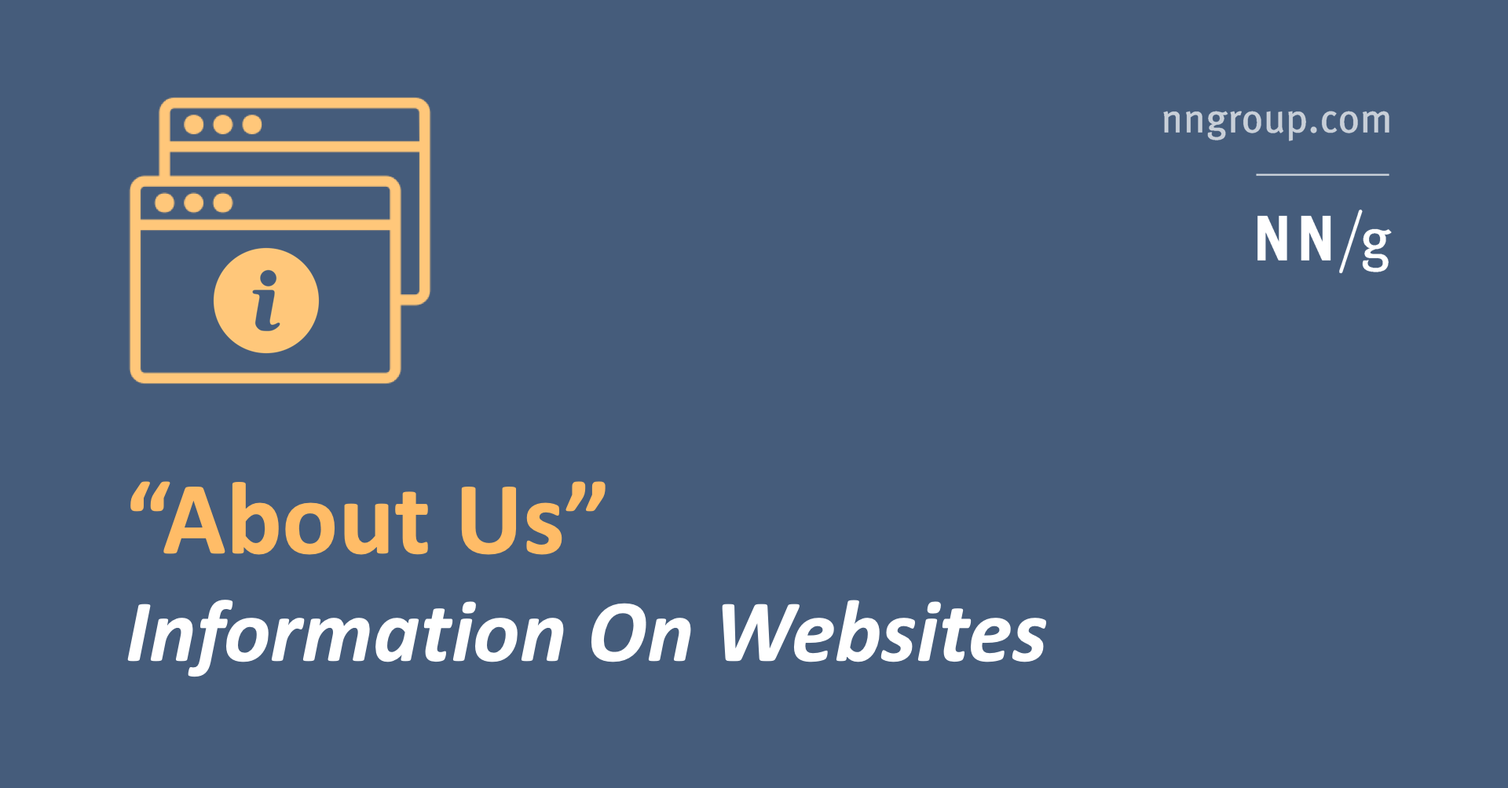
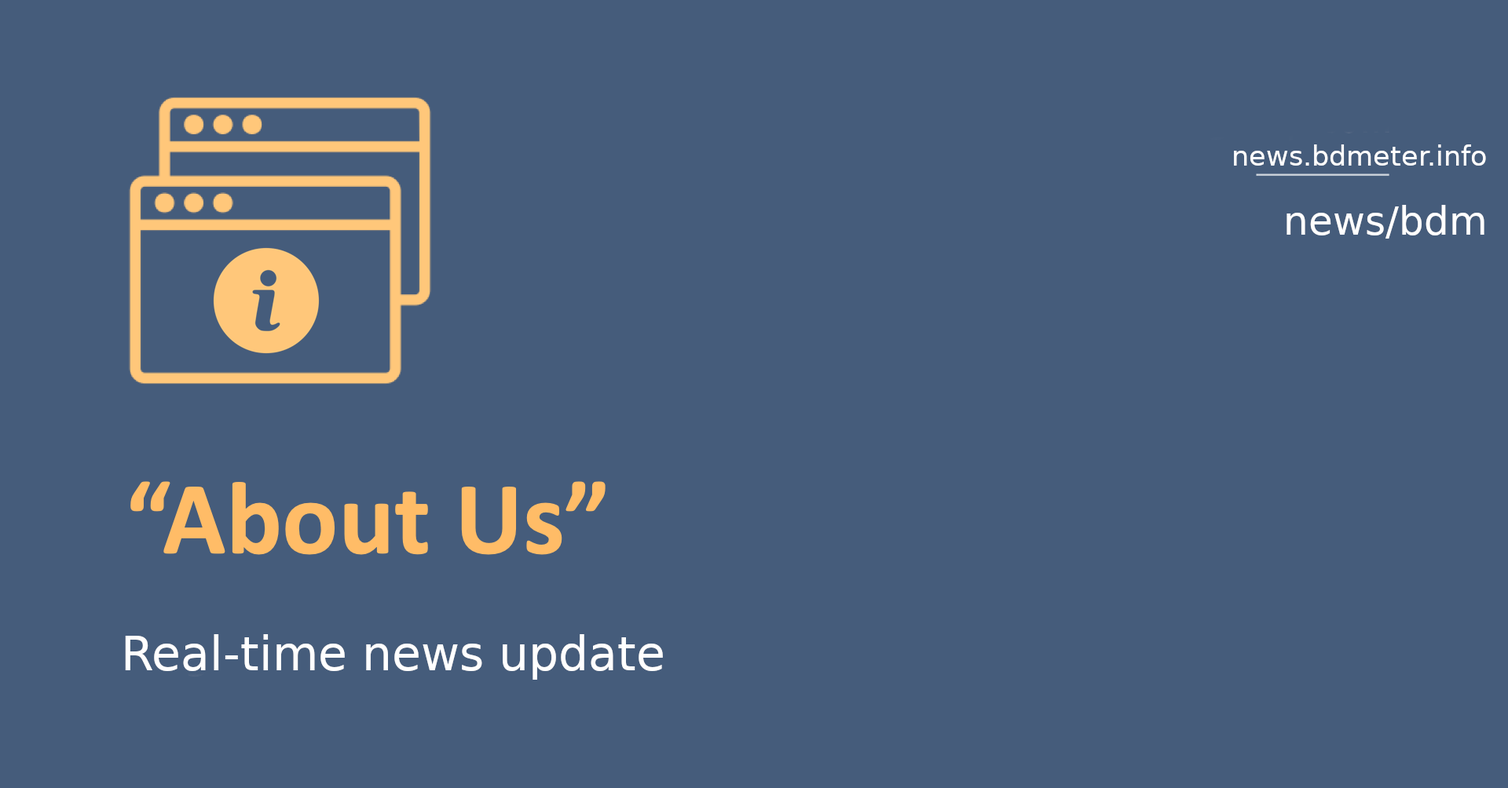
werfg

Changed region(s): [[0.0625, 0.741, 0.6875, 0.8645], [0.7812, 0.1235, 1.0, 0.2161], [0.8125, 0.247, 1.0, 0.3396]]

diff --git a/layouts/partials/hugopress/modules/hb-custom/hooks/body-end.html b/layouts/partials/hugopress/modules/hb-custom/hooks/body-end.html
@@ -109,3 +109,28 @@
     (adsbygoogle = window.adsbygoogle || []).push({});
     </script>
 </div>
+
+
+<script type='text/javascript'>
+    $(document).ready(function() {$('img#closed').click(function(){$('#bl_banner').hide(90);});});
+    </script>
+    <div id='fixedban' style='width:100%;margin:auto;text-align:center;float:none;overflow:hidden;display:scroll;position:fixed;bottom:0;z-index:999;-webkit-transform:translateZ(0);'>
+    <div>
+    <a id='close-fixedban' onclick='document.getElementById("fixedban").style.display = "none";' style='cursor:pointer;'><img alt='close' src='https://1.bp.blogspot.com/-ViBJvudead0/XupPbriErCI/AAAAAAAAATw/lx54gHfDbKk0cEAhTwNKNp3LN-4-D5JrwCK4BGAsYHg/s324/multiply_green.png' height='20' width='20' title='close button' style='vertical-align:middle; float:right;'/></a></div>
+    <div style='text-align:middle;display:block;max-width:728px;height:auto;overflow:hidden;margin:auto'>
+    
+    <script async src="https://pagead2.googlesyndication.com/pagead/js/adsbygoogle.js?client=ca-pub-6173503627170942"
+         crossorigin="anonymous"></script>
+    <!-- floating 1 -->
+    <ins class="adsbygoogle"
+         style="display:block"
+         data-ad-client="ca-pub-6173503627170942"
+         data-ad-slot="2011534447"
+         data-ad-format="auto"
+         data-full-width-responsive="true"></ins>
+    <script>
+         (adsbygoogle = window.adsbygoogle || []).push({});
+    </script>
+    
+    </div>
+    </div>

diff --git a/content/news/2023/08/2023-08-20-panama-canal-dried-up/index.md b/content/news/2023/08/2023-08-20-panama-canal-dried-up/index.md
@@ -1,0 +1,80 @@
+---
+title: "Panama Canal is facing a serious challenge due to a severe drought"
+date: "2023-08-20"
+description: "Hundreds of ships are stuck in a massive traffic jam, waiting for their turn to cross the Canal.
+"
+categories:
+    - "Live news"
+tags:
+    - "Panama Canal"
+    - "Shipping"
+    - "drought"
+    - "dried up"
+    - "Traffic jam"
+---
+
+## Global economy crisis due to Panama Canal stoppage
+
+The Panama Canal is one of the most important trade routes in the world, connecting the Atlantic and Pacific oceans and allowing ships to save time and money by avoiding the long detour around South America. However, the Canal is facing a serious challenge due to a severe drought that has reduced the water levels in the artificial lake that supplies the locks that lift and lower the ships. As a result, hundreds of ships are stuck in a massive traffic jam, waiting for their turn to cross the Canal.
+
+The drought is caused by climate change, which has altered the rainfall patterns in Panama, one of the wettest regions on Earth. The Canal relies on rainwater to fill its reservoirs, which are used to operate the locks. Each transit of a ship consumes about 50 million gallons of water, which is released into the ocean. The Canal authority has implemented measures to conserve water, such as recycling some of the water, installing water-saving basins, and imposing restrictions on the size and number of ships that can pass through each day. However, these measures are not enough to cope with the unprecedented dry spell that has lasted for months.
+
+The impact of the drought on the Canal is not only a problem for Panama, but also for the global economy. The Canal handles about 5% of world trade, with more than 12,000 ships passing through each year. The delay in transit affects many industries, such as agriculture, energy, manufacturing, and retail. Some shippers have opted to reroute their vessels around South America or use other modes of transportation, such as rail or air. However, these alternatives are more expensive, time-consuming, and environmentally damaging.
+
+The situation at the Canal highlights the vulnerability of global trade to climate change, which can disrupt supply chains and increase costs and risks. It also underscores the need for more investment in infrastructure and technology to adapt to changing weather conditions and ensure the resilience and sustainability of trade routes. The Canal authority is working on a long-term plan to expand its water sources and increase its storage capacity. It is also exploring the possibility of using renewable energy sources, such as solar and wind power, to operate the locks.
+
+The Panama Canal is a remarkable engineering feat that has transformed global trade for over a century. However, it is also facing a critical test due to climate change, which threatens its viability and efficiency. The drought at the Canal is a wake-up call for the world to take action to mitigate and adapt to the effects of climate change, which can have far-reaching consequences for trade and development.
+
+
+### WHy this happened in Panama Canal?
+
+The reason behind the Panama Canal drying up is climate change, which has caused a severe drought in Panama, one of the wettest regions on Earth. The Canal depends on rainwater to fill its reservoirs, which are used to operate the locks that lift and lower the ships. However, the rainfall patterns have changed due to global warming, resulting in less water available for the Canal.
+
+To improve the Canal, the Canal authority is working on several measures, such as:
+
+- Recycling some of the water used in each transit, instead of releasing it into the ocean.
+- Installing water-saving basins that reduce the amount of water needed for each lock operation by 7%.
+- Imposing restrictions on the size and number of ships that can pass through each day, based on the water levels and weather forecasts.
+- Expanding its water sources by building new reservoirs and dams, and increasing its storage capacity by raising the level of the existing lake.
+- Exploring the possibility of using renewable energy sources, such as solar and wind power, to operate the locks.
+
+These measures aim to conserve water, increase efficiency, and reduce the environmental impact of the Canal. However, they also require significant investment and time to implement. The Canal authority hopes to complete its long-term plan by 2028.
+
+### How to bypass ships stucked in Panama Canal
+There are two main ways to bypass the Panama Canal if you want to ship goods from one ocean to the other:
+
+- The first way is to go around South America, either through the Strait of Magellan or Cape Horn. This route is longer, more expensive, and more dangerous than the Canal, as it exposes the ships to rough seas, strong winds, and icebergs. However, some shippers have opted for this alternative to avoid the long delays and restrictions at the Canal due to the drought².
+- The second way is to use other modes of transportation, such as rail or air. For example, some shippers have used the intermodal network of railways and highways in North America to transport their goods from the Pacific coast to the Atlantic coast, or vice versa. This option is faster and more reliable than the Canal, but also more costly and less environmentally friendly. Another option is to use air cargo, which is the quickest and most flexible way to move goods across continents, but also the most expensive and limited by capacity².
+
+Both of these ways have their advantages and disadvantages, depending on the type, volume, value, and urgency of the goods being shipped. The Panama Canal remains the most efficient and convenient route for many shippers, but it also faces challenges due to climate change, which can disrupt its operations and affect its competitiveness. Therefore, it is important for shippers to have contingency plans and alternative routes in case of emergencies or disruptions at the Canal.
+
+
+### History of Panama Canal
+
+The history of the Panama Canal is a fascinating story of human ingenuity, ambition, and perseverance. The Canal is a man-made waterway that connects the Atlantic and Pacific oceans through the narrow Isthmus of Panama. It is one of the most important trade routes in the world, as it allows ships to save time and money by avoiding the long detour around South America. The Canal also has a significant impact on the environment, culture, and politics of Panama and the region.
+
+
+![Panama Canal history 1](images/14747608026_abb00df42c_h.jpg)
+
+The idea for a Canal across Panama dates back to the 16th century, when Spanish explorer Vasco Núñez de Balboa became the first European to discover that the Isthmus of Panama was just a slim land bridge separating the Atlantic and Pacific oceans³. The earliest European colonists recognized this, and several proposals for a Canal were made¹. However, it was not until the late 19th century that technological advances and commercial pressure allowed construction to begin in earnest.
+
+The first attempt to build the Canal was led by France, under the direction of Ferdinand de Lesseps, who had successfully built the Suez Canal in Egypt. However, the French project faced many challenges, such as the rugged terrain, tropical diseases, engineering difficulties, and financial scandals. After 10 years of work and the loss of more than 20,000 lives, the French company went bankrupt and abandoned the project in 1889.
+
+![Panama Canal history 2](images/Panama-Canal-construction-1.jpg)
+
+The second attempt was led by the United States, which had a strong interest in building a Canal for strategic and economic reasons. The U.S. acquired the rights to the French assets and negotiated a treaty with Colombia, which then controlled Panama, to build and operate the Canal. However, when Colombia rejected the treaty, the U.S. supported a revolution by Panamanian nationalists who declared their independence from Colombia in 1903¹. The U.S. then signed a new treaty with Panama, granting it a perpetual lease on a 10-mile-wide strip of land known as the Canal Zone.
+
+![Panama Canal history 3](images/Panama_Gatun_locks_WS_dbloc.jpg)
+
+The U.S. project was supervised by John F. Stevens and later George W. Goethals, who made several changes to improve the efficiency and safety of the Canal. They decided to use a lock system instead of a sea-level Canal, which required less excavation and allowed for better control of water levels. They also implemented sanitary measures to combat malaria and yellow fever, which had decimated the French workers. They also used innovative technologies such as steam shovels, dredges, railroads, and concrete mixers to speed up the construction process.
+
+![Panama Canal history 4](images/PanamaCanalSSAncon1914FirstShipThru2.jpg)
+
+The Panama Canal was completed in August 1914, after 10 years of work and the expenditure of $375 million. It was considered one of the greatest engineering achievements of its time. The Canal was officially opened on August 15, 1914, with the passage of the cargo ship SS Ancon¹. Since then, more than one million vessels have transited through the Canal, carrying more than 14 billion tons of cargo.
+
+The Canal has also been a source of controversy and conflict over its ownership and operation. For many years, Panama resented the U.S. presence and influence in its territory and demanded more sovereignty and benefits from the Canal. After several riots and negotiations, the U.S. and Panama signed two treaties in 1977 that agreed to transfer the control of the Canal to Panama by December 31, 1999. The transfer was completed peacefully and successfully on that date, marking a new era for Panama and its relations with the U.S.
+
+Since then, Panama has been responsible for administering and managing the Canal through an autonomous agency called the Panama Canal Authority (ACP). The ACP has invested in modernizing and expanding the Canal to meet the growing demand and competition from other routes. In 2007, it began a major project to build a third set of locks that can accommodate larger ships with more cargo capacity. The project was completed in June 2016, increasing the Canal's annual revenue by 50%.
+
+The Panama Canal is not only a vital link for global trade but also a symbol of human creativity and cooperation. It is a testament to how people can overcome natural and artificial obstacles to achieve their goals and dreams. It is also a reminder of how people can respect and share their resources for mutual benefit and development.
+

diff --git a/content/news/2023/08/2023-08-17-lake-mead-lake-powell-changes/index.md b/content/news/2023/08/2023-08-17-lake-mead-lake-powell-changes/index.md
@@ -1,0 +1,57 @@
+---
+title: "How Lake Mead and Lake Powell Water Levels Are Changing and Why It Matters"
+date: "2023-08-17"
+description: "Lake Mead and Lake Powell are two of the largest reservoirs in the United States and the main storage units of the Colorado River system, which provides water to about 40 million people and 5.5 million acres of farmland in seven states and Mexico."
+categories:
+    - "Live news"
+tags:
+    - "Lake Mead"
+    - "Lake Powell"
+    - "United States"
+    - "Colorado River system"
+    - "Water level"
+---
+
+## How Lake Mead and Lake Powell Water Levels Are Changing and Why It Matters
+
+Lake Mead and Lake Powell are two of the largest reservoirs in the United States and the main storage units of the Colorado River system, which provides water to about 40 million people and 5.5 million acres of farmland in seven states and Mexico. However, both lakes have been suffering from a prolonged drought that has reduced their water levels to historically low levels, threatening the water supply, hydropower generation, recreation and ecosystem of the region. In this blog post, we will look at how the water levels of Lake Mead and Lake Powell have changed over time, what are the causes and consequences of these changes, and what are the possible solutions to address this challenge.
+
+### How have the water levels changed?
+According to the data from the Bureau of Reclamation (BOR), which manages both reservoirs, Lake Mead and Lake Powell have experienced a significant decline in their water levels since 2000, when they were both near full capacity. The decline was mainly driven by a combination of low precipitation, high evaporation, increased water demand and reduced inflow from upstream tributaries. As of August 16, 2023, Lake Mead's water level was at 1,075 feet above sea level, which is about 145 feet below its full capacity of 1,220 feet. Lake Powell's water level was at 3,574 feet above sea level, which is about 125 feet below its full capacity of 3,700 feet.
+
+The water levels of both lakes fluctuate seasonally and annually depending on the hydrological conditions and the water management policies. For example, in 2023, both lakes saw an improvement in their water levels due to above-average precipitation and snowpack that melted throughout the summer. However, this improvement was not enough to reverse the long-term trend of decline. In fact, the BOR projected that both lakes will continue to drop in the next two years, reaching 1,065 feet for Lake Mead and 3,525 feet for Lake Powell by January 1, 2024.
+
+![Lake Mead](images/lakemeadlakepowell.png)
+
+### Why do the water levels matter?
+The water levels of Lake Mead and Lake Powell have significant implications for various aspects of the region's economy, environment and society. Here are some of the main impacts:
+
+- Water supply: The Colorado River system supplies water to about 40 million people and 5.5 million acres of farmland in Arizona, California, Colorado, Nevada, New Mexico, Utah and Wyoming, as well as Mexico. The lower the water levels of Lake Mead and Lake Powell are, the less water is available for these users. Moreover, the lower water levels also increase the salinity and reduce the quality of the water.
+- Hydropower generation: The Hoover Dam on Lake Mead and the Glen Canyon Dam on Lake Powell are two of the largest hydropower plants in the country, producing electricity for millions of homes and businesses in the Southwest. The lower the water levels of Lake Mead and Lake Powell are, the less power they can generate. For example, according to the BOR, if Lake Mead drops below 1,050 feet, it would lose about 25% of its power output. If it drops below 900 feet, it would stop producing power altogether.
+- Recreation: Lake Mead and Lake Powell are popular destinations for boating, fishing, camping and other recreational activities that generate millions of dollars in revenue and support thousands of jobs in the region. The lower the water levels of Lake Mead and Lake Powell are, the less attractive they are for visitors. For example, according to a study by Arizona State University¹, every foot drop in Lake Mead's water level reduces its economic value by $6.4 million.
+- Ecosystem: The Colorado River system supports a rich biodiversity of fish, wildlife and plants that depend on its flow regime, temperature and quality. The lower the water levels of Lake Mead and Lake Powell are, the more they alter these ecological conditions and threaten the survival of many species. For example, according to a report by American Rivers², four native fish species in the Colorado River basin are endangered or threatened due to habitat loss, fragmentation and degradation caused by dams and diversions.
+
+![Lake Powell Drying recovery 2023](images/LakePowell-dried-up.png)
+
+### What are the possible solutions?
+To address the challenge of declining water levels in Lake Mead and Lake Powell, there is no single or easy solution. Rather, it requires a combination of short-term and long-term measures that involve cooperation among various stakeholders at local, state, federal and international levels. Some of these measures include:
+
+- Conservation: One of the most effective ways to save water is to use less of it. This can be achieved by implementing various conservation practices such as installing low-flow fixtures, replacing turf with drought-tolerant landscaping,
+recycling wastewater,
+using drip irrigation,
+and educating consumers about water efficiency.
+- Innovation: Another way to save water is to use it more wisely. This can be achieved by applying various technological innovations such as remote sensing, artificial intelligence, smart meters, leak detection, and water trading that can help optimize water allocation, distribution and management.
+- Adaptation: A third way to save water is to adapt to the changing conditions. This can be achieved by adjusting various policies and regulations such as water rights, pricing, allocation, transfers, and governance that can help balance the competing demands and interests of different water users and sectors.
+- Collaboration: A fourth way to save water is to work together. This can be achieved by fostering various forms of collaboration such as agreements, partnerships, coalitions, and dialogues that can help build trust and cooperation among different stakeholders across borders and boundaries.
+
+### Conclusion
+Lake Mead and Lake Powell are two of the most important reservoirs in the United States and the main storage units of the Colorado River system, which provides water to millions of people and acres of farmland in the region. However, both lakes have been facing a severe drought that has reduced their water levels to historically low levels, threatening the water supply, hydropower generation, recreation and ecosystem of the region. To address this challenge, there is no single or easy solution. Rather, it requires a combination of conservation, innovation, adaptation and collaboration among various stakeholders at local, state, federal and international levels. By taking these actions, we can ensure the sustainability and resilience of Lake Mead and Lake Powell and the Colorado River system for the present and future generations.
+
+#### Source: 
+(1) Charts Show Lake Mead, Powell Water Levels Change Amid Low ... - Newsweek. https://www.newsweek.com/charts-show-lake-mead-powell-water-levels-change-amid-low-storage-warning-1820345.
+
+(2) Federal officials announce 2024 plans for Lake Mead, Lake Powell water use. https://www.ktnv.com/news/federal-officials-announce-2024-plans-for-lake-mead-lake-powell-water-use.
+
+(3) Have Lake Mead Water Levels Stopped Rising? What We Know - Newsweek. https://www.newsweek.com/have-lake-mead-water-levels-stopped-rising-what-we-know-1812582.
+
+(4) Here's how much Lake Mead could rise after an epic winter and new water .... https://www.cnn.com/2023/06/24/us/how-much-lake-mead-water-rise-climate/index.html.

diff --git a/content/news/2023/08/2023-08-17-Ukraine-Give-Up-Territory/index.md b/content/news/2023/08/2023-08-17-Ukraine-Give-Up-Territory/index.md
@@ -1,0 +1,43 @@
+---
+title: "Should Ukraine Give Up Territory for NATO Membership?"
+date: "2023-08-17"
+description: "The recent suggestion by a senior NATO official that Ukraine could consider ceding some of its disputed territories to Russia in exchange for joining the military alliance has sparked a heated debate among experts, politicians and the public."
+categories:
+    - "Live news"
+tags:
+    - "Ukraine"
+    - "War"
+    - "Territory"
+    - "NATO"
+    - "Membership"
+---
+
+## Should Ukraine Give Up Territory for NATO Membership?
+
+The recent suggestion by a senior NATO official that Ukraine could consider ceding some of its disputed territories to Russia in exchange for joining the military alliance has sparked a heated debate among experts, politicians and the public. The idea, which was quickly retracted and apologized for by the official, was met with strong opposition and criticism from the Ukrainian government and society, who see it as a betrayal of their sovereignty and national interests. But is there any merit to this controversial proposal? What are the pros and cons of such a trade-off for Ukraine and its security?
+
+### The Pros
+One of the main arguments in favor of giving up territory for NATO membership is that it could end the ongoing war in eastern Ukraine, which has claimed over 14,000 lives and displaced millions of people since 2014. By accepting Russia's annexation of Crimea and its control over parts of the Donbas region, Ukraine could secure a lasting peace agreement with Moscow and avoid further escalation and violence. Moreover, by joining NATO, Ukraine would gain the protection and support of the most powerful military alliance in the world, which could deter any future aggression from Russia or other threats. NATO membership would also boost Ukraine's political and economic integration with the West, enhancing its democratic reforms, rule of law, human rights and market economy.
+
+### The Cons
+However, there are also many drawbacks and risks associated with giving up territory for NATO membership. First of all, it would mean abandoning the territorial integrity and sovereignty of Ukraine, which are enshrined in its constitution and supported by the majority of its citizens. It would also mean rewarding Russia for its illegal annexation of Crimea and its military intervention in Donbas, which violate international law and norms. Such a concession could embolden Russia to pursue further expansionism and destabilization in the region and beyond. Furthermore, it is not clear that NATO membership would guarantee Ukraine's security, as the alliance has been reluctant to intervene militarily in the conflict or provide lethal weapons to Kyiv. There is also no guarantee that all NATO members would agree to admit Ukraine, especially those that have close ties or dependencies on Russia, such as Germany or Turkey. Additionally, giving up territory for NATO membership could alienate some of Ukraine's allies and partners, such as Poland or Georgia, who also have territorial disputes with Russia and aspire to join NATO.
+
+### The Conclusion
+In conclusion, giving up territory for NATO membership is a highly controversial and risky proposition for Ukraine, which has more cons than pros. It would entail sacrificing its sovereignty and legitimacy for an uncertain security guarantee and a potential backlash from Russia and other actors. It would also contradict the aspirations and values of the Ukrainian people, who have fought hard to defend their independence and democracy. Therefore, Ukraine should not give up territory for NATO membership, but rather pursue other ways to enhance its security and cooperation with NATO and the West, such as strengthening its defense capabilities, implementing reforms, resolving the conflict diplomatically and building trust and dialogue with all stakeholders.
+
+### Source: 
+(1) Nato official suggests Ukraine could give up land in exchange for .... https://www.theguardian.com/world/2023/aug/16/nato-official-suggests-ukraine-could-give-up-territory-in-exchange-for-membership.
+
+(2) Ukraine fumes at NATO territory suggestion as Medvedev calls for Russia to get Kyiv. https://www.msn.com/en-us/news/other/ukraine-fumes-at-nato-territory-suggestion-as-medvedev-calls-for-russia-to-get-kyiv/ar-AA1fmnHf.
+
+(3) Ukraine angered by NATO official's suggestion that it could 'give up territory' to Russia and get NATO membership in return. https://www.msn.com/en-us/news/world/ukraine-angered-by-nato-officials-suggestion-that-it-could-give-up-territory-to-russia-and-get-nato-membership-in-return/ar-AA1flvyr.
+
+(4) Ukraine–NATO relations - Wikipedia. https://en.wikipedia.org/wiki/Ukraine%E2%80%93NATO_relations.
+
+(5) NATO's condition for Ukraine: Membership hinges on territory concession to Russia. https://www.wionews.com/world/natos-condition-for-ukraine-membership-hinges-on-territory-concession-to-russia-625815.
+
+(6) Ukraine: At least 20 Russian soldiers die of fragging as they exchange fire with automatics, lob grenades on each other. https://www.firstpost.com/world/at-least-20-russian-soldiers-die-of-fragging-in-ukraine-as-exchange-fire-with-automatics-lob-grenades-on-each-other-13004522.html.
+
+(7) Ukraine reports new attack on grain storage facilities. https://www.omanobserver.om/article/1141554/world/europe/ukraine-reports-new-attack-on-grain-storage-facilities.
+
+(8) NATO official admits comments on Ukraine giving up territory to gain .... https://www.cnbc.com/2023/08/16/nato-official-dials-back-comment-on-ukraine-ceding-land-to-gain-membership-.html.

diff --git a/content/page/2023/04/2023-04-05-vaccine-policy/index.md b/content/page/2023/04/2023-04-05-vaccine-policy/index.md
@@ -3,7 +3,7 @@ title: "Vaccine Policy"
 date: "2023-04-05"
 ---
 
-We are Bdmeter, a fully online base information service and tech company. Bdmeter always advises all of its employees working remotely to ensure Covid-19 vaccination with booster dose to ensure life security. We aren't limited to accepting only vaccinated people into our organization because Bdmeter is only online based, and no close contact is related to our organization's terms.
+We are Bdmeter news department, a fully online base information service and tech company. Bdmeter always advises all of its employees working remotely to ensure Covid-19 vaccination with booster dose to ensure life security. We aren't limited to accepting only vaccinated people into our organization because Bdmeter is only online based, and no close contact is related to our organization's terms.
 
 So, whoever is working with , is not limited to working from home if he/she is vaccinated/not. We believe in freedom and are full of the potential of people. We do not make any boundaries to accept only workers in a case under certain terms and conditions for remote working.
 

diff --git a/content/page/2023/03/2023-03-17-about/index.md b/content/page/2023/03/2023-03-17-about/index.md
@@ -7,7 +7,7 @@ date: "2023-03-17"
 
 ## Our Story
 
-We are Bdmeter, We are a team of friends and most are Engineers, Technologists, Architects, Builders, and Specialists was thinking louder in last 2018 to develop something that can help people. Then we have descided to start a blogsite and we are the Authors from his own position of work. Then we have started our jouney in October 2018. We are trying to help our communities to learn something really important to develop our business, industry, socienty, environment, shelter, health, safety all together. 
+We are Bdmeter News, We are a team of Journalist and Bloggers, and News Specialists have started our jouney in June 2021. We are an organization of live news moderator, analyzer to represent news in a way means more authentic and reliable. 
 
 ## We are driven by values
 

diff --git a/content/page/2023/03/2023-03-17-privacy-policy/index.md b/content/page/2023/03/2023-03-17-privacy-policy/index.md
@@ -1,11 +1,11 @@
 ---
 title: "Privacy Policy"
-date: "2023-03-17"
+date: "2023-04-17"
 ---
 
 ## Who we are
 
-We are Bdmeter, located in NYC, United States. We are one of the largest information services providers of real-time global information, technology, business, innovations, changes, ideas, thinking, and the future.
+We are Bdmeter News, located in NYC, United States. We are one of the largest information services providers of real-time global information, technology, business, innovations, changes, ideas, thinking, and the future.
 
 ## Comments
 

diff --git a/content/page/2023/03/2023-03-20-newsletter/index.md b/content/page/2023/03/2023-03-20-newsletter/index.md
@@ -3,7 +3,7 @@ title: "Newsletter"
 date: "2023-03-20"
 ---
 
-## Subscribe for newsletter
+## Subscribe for live news newsletter
 
 <div class="form">
     <form action="https://getform.io/f/1003cb49-edc3-4dca-9c2c-456328bd412c" method="POST">

diff --git a/content/page/2023/03/2023-03-17-contact/index.md b/content/page/2023/03/2023-03-17-contact/index.md
@@ -1,6 +1,6 @@
 ---
 title: "Contact"
-date: "2023-03-17"
+date: "2023-05-17"
 coverImage: "icon-bdmeter-2.png"
 ---
 

diff --git a/content/page/2023/03/2023-03-26-earn/index.md b/content/page/2023/03/2023-03-26-earn/index.md
@@ -1,5 +1,5 @@
 ---
-title: "Earn"
+title: "Earn with news online"
 date: "2023-03-26"
 ---
 

diff --git a/content/page/2023/03/2023-03-16-sitemap/index.md b/content/page/2023/03/2023-03-16-sitemap/index.md
@@ -1,6 +1,6 @@
 ---
 title: "Sitemap"
-date: "2023-03-16"
+date: "2023-08-16"
 ---
 
 
